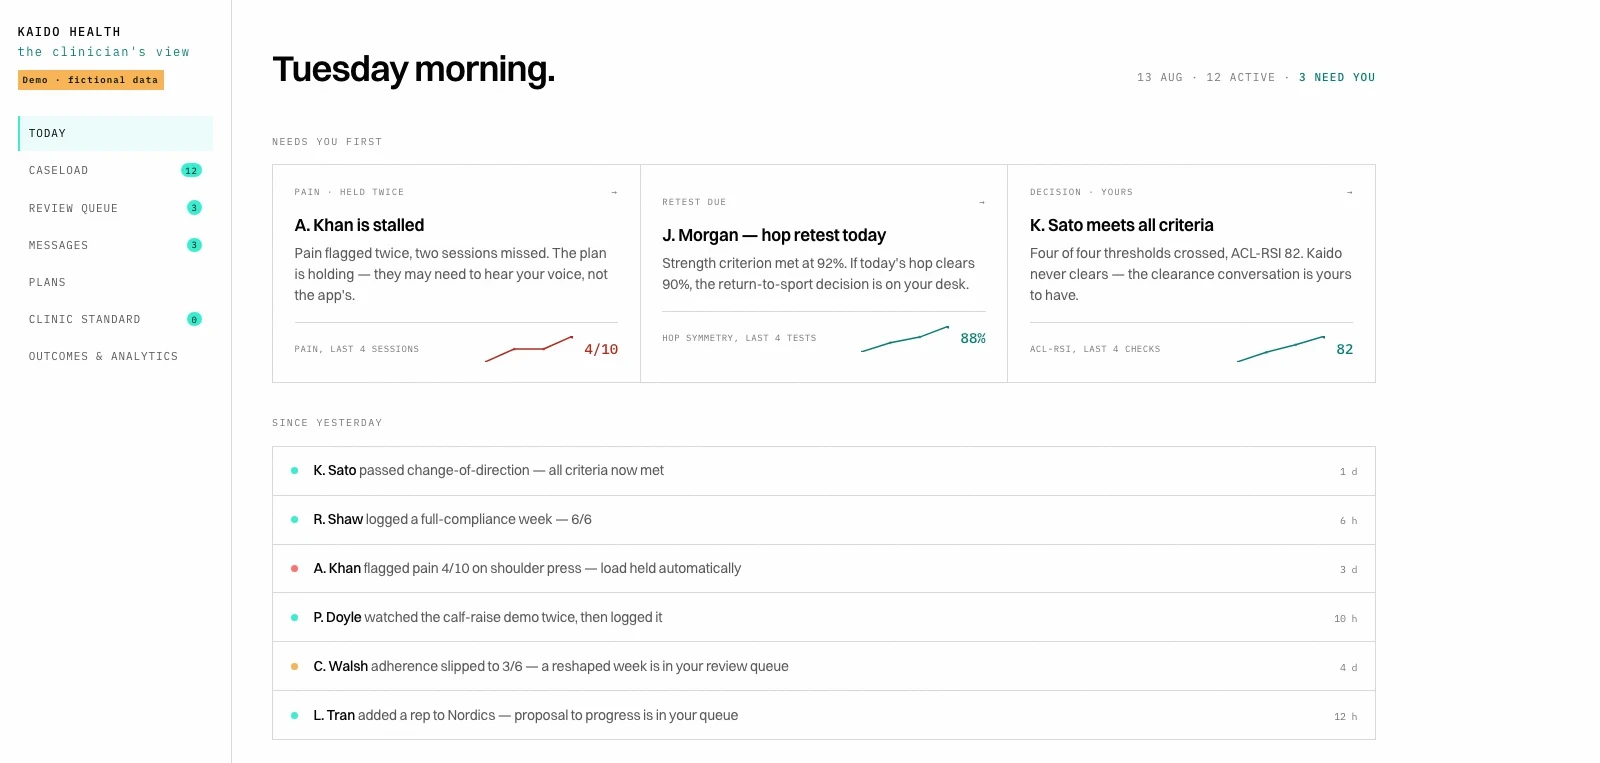
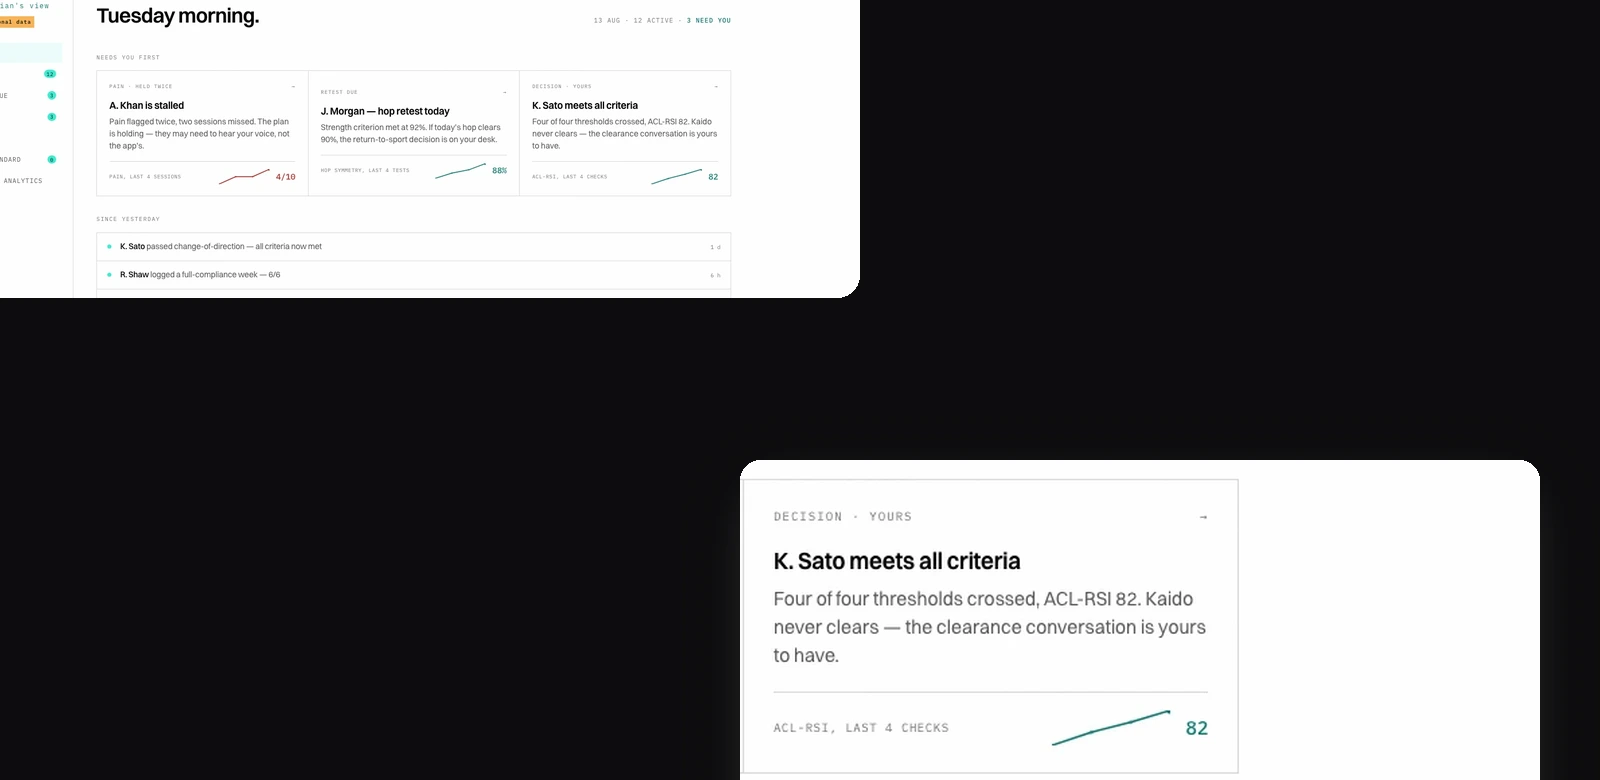
Kaido and IKARAO: the same composition upgrade, honestly adapted
Kaido -- no fabrication needed. Its screenshots are already native
1600px captures of the real web app, so the Linear layered-composition
recipe was applied directly to real pixels: the full "Tuesday morning"
dashboard as base, with the decisive "K. Sato meets all criteria" card
(four thresholds crossed, ACL-RSI 82) cropped from the same real
screenshot and blown up as the floating detail. Shared by the homepage
tile and the case-study hero, so both fixed together.

IKARAO -- a different problem, on purpose. Its images are the generated
output the whole case study is about; authoring a hand-built stand-in
for a mark would fake the one thing the page proves (that the engine,
not a designer, drew it). The honest equivalent: drove the real Shipibo
Tool/Wall at a narrow viewport and 2x device scale so the engine's own
output renders at genuine large size instead of a thumbnail -- captured
ORACLE-55, one real generated mark with its label, pin-sharp -- and
composed it as the floating detail over the real dense field, same
layered-composition language as everywhere else on the site. Nothing
drawn by hand; the crop and composition are the only edits.

diff --git a/index.html b/index.html
@@ -836,7 +836,7 @@ section.reveal>.wrap{position:relative;}
         <div class="wktext"><div class="wkn" style="view-transition-name:t-frame">Frame<em style="color:var(--acc-frame)">.</em></div><div class="wkd">A BJJ journal built against the forgetting curve.</div><div class="wkm"><span>iOS &middot; Spaced recall</span><span class="live">Alpha &middot; framebjj.app</span></div></div>
       </a>
       <a class="wkrow" href="work-ikarao.html">
-        <div class="wkmedia"><div class="spec"><i></i><i></i><i></i><i></i><div class="wkframe" style="view-transition-name:m-ikarao;aspect-ratio:1600/800"><img src="media/shots/i-hero2.webp" alt="IKARAO — a field of generated marks, each one a different subnet name, cut by the frame rather than shown whole" loading="lazy" width="1600" height="800"></div></div></div>
+        <div class="wkmedia"><div class="spec"><i></i><i></i><i></i><i></i><div class="wkframe" style="view-transition-name:m-ikarao;aspect-ratio:1600/800"><img src="media/shots/i-hero2.webp" alt="IKARAO — ORACLE-55, one generated mark, over the real field of 300 it was drawn among" loading="lazy" width="1600" height="800"></div></div></div>
         <div class="wktext"><div class="wkn" style="view-transition-name:t-ikarao">IKARAO<em style="color:var(--acc-ikarao)">.</em></div><div class="wkd">A generative identity system for Bittensor.</div><div class="wkm"><span>Brand &middot; Engine</span><span class="live">Delivered &middot; bittensor.com</span></div></div>
       </a>
     </div>

diff --git a/work-ikarao.html b/work-ikarao.html
@@ -454,7 +454,7 @@ body.cursor-on,body.cursor-on a,body.cursor-on button,body.cursor-on summary{cur
       <div class="csmeta"><div><b>Services</b><span>Brand &middot; Engine</span></div><div><b>For</b><span><a href="https://bittensor.com" target="_blank" rel="noopener">Bittensor &nearr;</a></span></div><div><b>Role</b><span>Design + build</span></div><div><b>Status</b><span>Delivered</span></div><div><b>Year</b><span>2026</span></div><div><b>Accent</b><span><i class="acc" aria-hidden="true"></i>#A8341F</span></div></div>
     </div>
     <figure class="cshmedia">
-      <div class="spec"><i></i><i></i><i></i><i></i><div class="device device-lg dv-wide" style="view-transition-name:m-ikarao;aspect-ratio:1600/800"><img src="media/shots/i-hero2.webp" alt="IKARAO — a field of generated marks, each one a different subnet name, cut by the frame rather than shown whole" loading="eager" width="1600" height="800"></div></div>
+      <div class="spec"><i></i><i></i><i></i><i></i><div class="device device-lg dv-wide" style="view-transition-name:m-ikarao;aspect-ratio:1600/800"><img src="media/shots/i-hero2.webp" alt="IKARAO — ORACLE-55, one generated mark, over the real field of 300 it was drawn among" loading="eager" width="1600" height="800"></div></div>
       <figcaption class="cshcap"><span class="dot"></span>From the wall of 300 — none drawn by hand</figcaption>
     </figure>
   </div>
